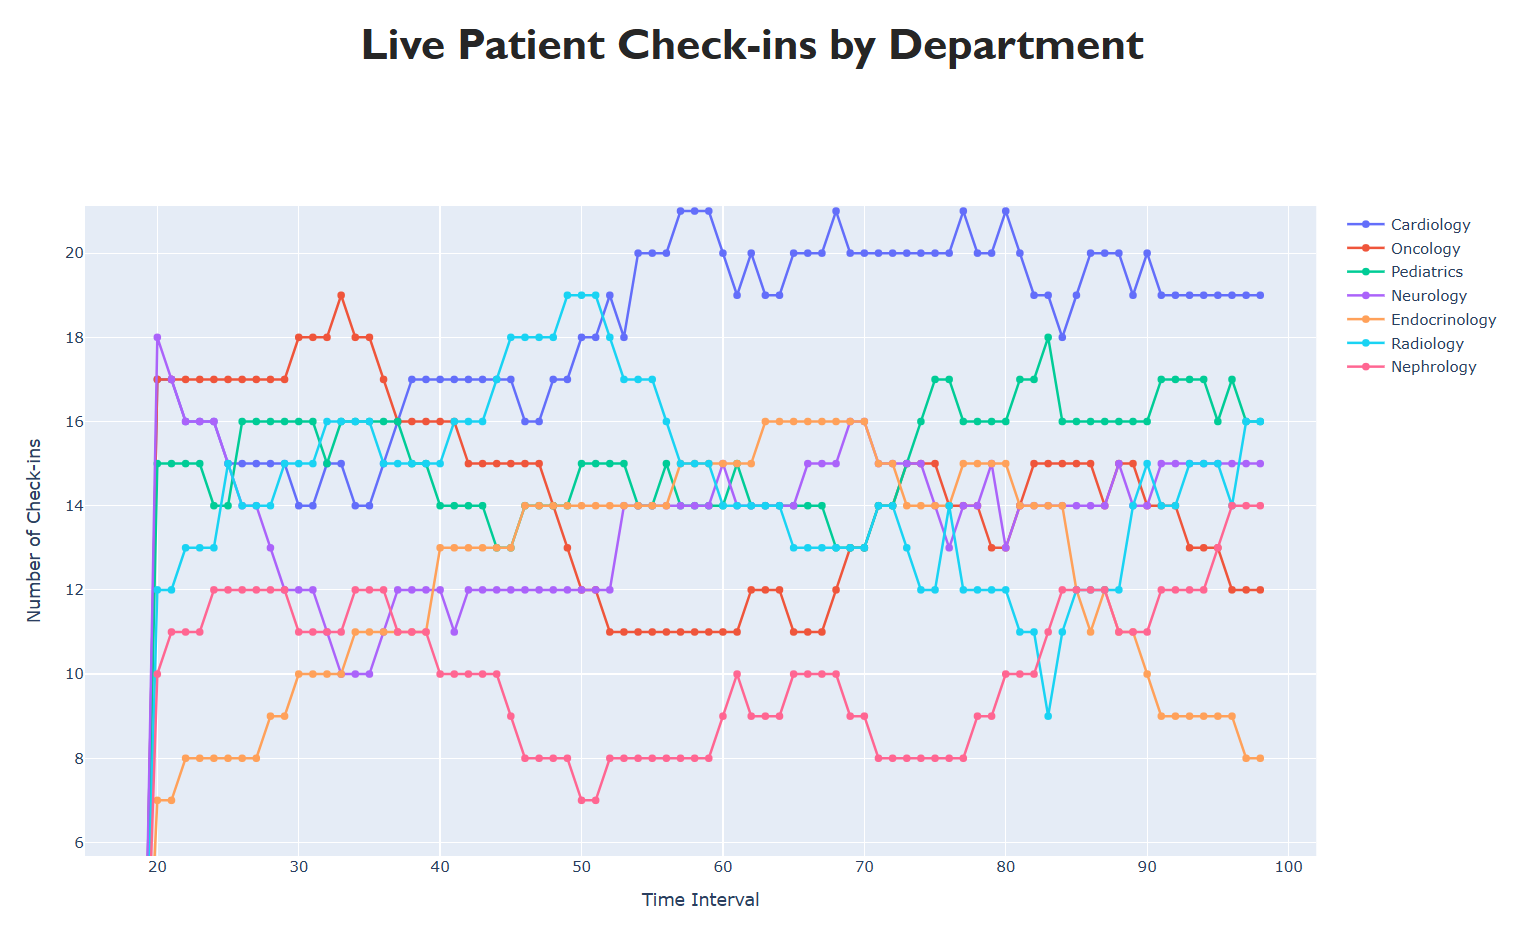
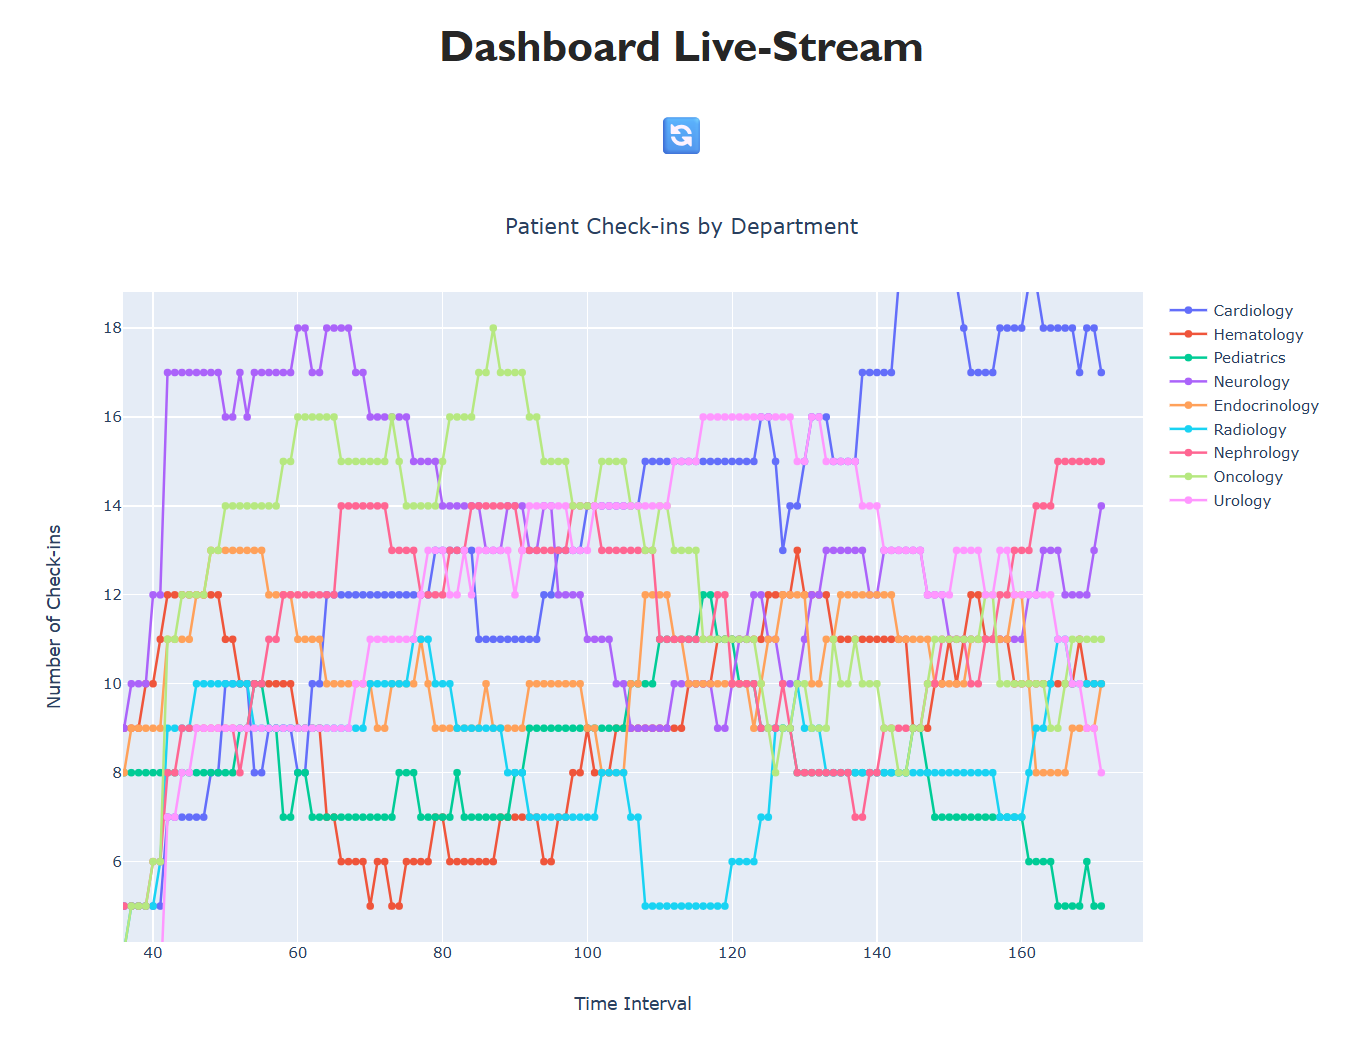
styling updates

Changed region(s): [[0.0, 0.1857, 0.9978, 0.9904], [0.2183, 0.0309, 0.7483, 0.0619], [0.4677, 0.0928, 0.5301, 0.1547]]

diff --git a/assets/style.css b/assets/style.css
@@ -40,29 +40,56 @@
   display: flex;
   flex-direction: row;
   justify-content: center;
+  align-items: center;
   margin: -5px 0px 0px 0px;
-  padding: -10px 0px 0px 0px;
+  padding: 0px 0px 0px 0px;
 }
 
 .repo-btn {
-  display: inline-block;
-  text-align: center;
-  margin: 20px 15px 15px 15px;
+  /* display: inline-block; */
+  border: 1px solid black;
+  border-radius: 2px;
+
   color:black;
   background-color: lightgray;
-  border: 2px solid black;
-  border-radius: 10px;
-  font-size: 20px;
+
+  font-size: 15px;
   font-family: 'Calibri';
-  padding: 5px 7px;
+  text-align: center;
   text-decoration: none;
+
+  margin: 20px 15px 15px 15px;
+  padding: 1px 6px 2px 6px;
 }
 
 .repo-btn:hover {
   opacity: 0.7;
+  text-decoration: underline;
 }
 
 .repo-btn:active {
+  transform: translate(0, 3px);
+}
+
+#reset-button {
+  border: 1px solid;
+  border-radius: 4px;
+  border-color: rgb(255, 255, 255);
+  background-color: rgb(255, 255, 255);
+  /* background-color: lightgray; */
+  font-family: 'Calibri';
+  font-size: 30px;
+
+  margin: 15px 0px 0px 0px;
+  padding: 0px 0px 0px 0px;
+}
+
+#reset-button:hover {
+  opacity: 0.7;
+  cursor: pointer;
+}
+
+#reset-button:active {
   transform: translate(0, 3px);
 }
 
@@ -73,6 +100,7 @@
   flex-direction: column;
   justify-content: center;
   align-items: center;
+  gap: 5px; /* Controls spacing between children */
   /* flex-grow: 1; */
 
   margin: 0px 0px 0px 0px;
@@ -96,7 +124,7 @@
 .line-graph {
   margin: 0px 0px 0px 0px;
   padding: 0px 0px 0px 0px;
-  width: 95%;
+  width: 99%;
   height: 100%;
 }
 

diff --git a/healthcare_analytics.py b/healthcare_analytics.py
@@ -12,7 +12,7 @@ from dotenv import load_dotenv
 load_dotenv()
 
 import dash
-from dash import dcc, html, Output, Input
+from dash import dcc, html, Output, Input, State
 import plotly.graph_objects as go
 
 from confluent_kafka import Producer, Consumer, KafkaError
@@ -31,9 +31,10 @@ DEPARTMENTS = [
     "Pediatrics",
     "Neurology",
     "Endocrinology", 
-    # "Radiology",
-    # "Nephrology",
-    # "Oncology",
+    "Radiology",
+    "Nephrology",
+    "Oncology",
+    "Urology",
 ]
 
 # Thread-safe queue for consumed messages
@@ -220,12 +221,18 @@ app.layout = html.Div(
         className="kafka-row",
         children=[
             html.H1(
-                "Live Patient Check-ins by Department",
+                "Dashboard Live-Stream",
                 className="kafka-title"
             ),
+            html.Div([
+                html.Button("🔄", id="reset-button", n_clicks=0)
+            ]),
+            dcc.Store(id="department-store", data=DEPARTMENTS),
+
             dcc.Graph(
                 className="line-graph",
-                id='live-bar-chart'
+                id='live-bar-chart',
+                style={"marginTop": "0px"}
             ),
             html.Div(
                 className="interval",
@@ -315,55 +322,75 @@ app.layout = html.Div(
     )
 ])
 
-
 @app.callback(
     Output('live-bar-chart', 'figure'),
-    Input('interval-component', 'n_intervals')
+    Input('interval-component', 'n_intervals'),
+    State('department-store', 'data')
 )
-def update_graph_live(n):
+def update_graph_live(n, departments):
     print(f"Updating chart at interval {n}")
     print(f"Consumed Data Length: {len(consumed_data)}")
     
-    # Grab a thread-safe copy of the latest consumed data
     with data_lock:
         data_snapshot = list(consumed_data)
 
-    # Count how many check-ins happened per department right now
-    current_counts = {dept: 0 for dept in DEPARTMENTS}
+    current_counts = {dept: 0 for dept in departments}
     for record in data_snapshot:
         dept = record.get('department')
         if dept in current_counts:
             current_counts[dept] += 1
 
-    # Add these counts to the running history for each department
-    for dept in DEPARTMENTS:
+    for dept in departments:
         counts_history[dept].append(current_counts.get(dept, 0))
 
-    # Build a list of line traces for the chart, one per department
     data = []
-    for dept in DEPARTMENTS:
+    for dept in departments:
         data.append(go.Scatter(
-            x=list(range(len(counts_history[dept]))),  # x is just the interval index
-            y=counts_history[dept],                    # y is the count history for this dept
-            mode='lines+markers',                      # show lines with dots on points
-            name=dept,                                 # label the line with the department name
+            x=list(range(len(counts_history[dept]))),
+            y=counts_history[dept],
+            mode='lines+markers',
+            name=dept,
             hovertemplate=f"{dept}: <b>%{{y}}</b><extra></extra>"
         ))
 
-    # Put it all together in a Figure with titles and axis labels
     fig = go.Figure(data=data)
     fig.update_layout(
         height=700,
-        xaxis_title="Time Interval",
-        yaxis_title="Number of Check-ins",
-        yaxis=dict(range=[0, max(max(counts) for counts in counts_history.values()) + 1])  # y-axis from 0 to max count + 1
+        title=dict(
+            text="Patient Check-ins by Department",
+            y=0.94,  # Lower the title closer to the chart
+            x=0.5, 
+            xanchor='center',
+            yanchor='top'
+        ),
+        xaxis=dict(
+            title="Time Interval",
+            title_standoff=30  # ⬅ Adds space below the x-axis title
+        ),
+        yaxis=dict(
+            title="Number of Check-ins",
+            title_standoff=30,  # ⬅ Adds space to the left of the y-axis title
+            range=[0, max(max(counts) for counts in counts_history.values()) + 1]
+        )
     )
     return fig
 
+@app.callback(
+    Output("interval-component", "n_intervals"),
+    Input("reset-button", "n_clicks"),
+    prevent_initial_call=True
+)
+def reset_chart(n_clicks):
+    with data_lock: 
+        consumed_data.clear()
+    for dept in counts_history:
+        counts_history[dept].clear()
+    return 0  # ✅ Resets the interval and restarts chart updates
 
 # =========================== RUN APP & THREADS ======================= #
 
 if __name__ == "__main__":
+    
     # Start Kafka producer thread (daemon so it ends when main thread ends)
     producer_thread = threading.Thread(target=kafka_producer, daemon=True)
     producer_thread.start()
@@ -374,8 +401,8 @@ if __name__ == "__main__":
 
     # Run Dash app on all interfaces and appropriate port (for Heroku)
     port = int(os.environ.get('PORT', 8050))
-    # app.run_server(host='0.0.0.0', port=port, debug=True)
-    app.run_server(host='0.0.0.0', port=port, debug=False)
+    app.run_server(host='0.0.0.0', port=port, debug=True)
+    # app.run_server(host='0.0.0.0', port=port, debug=False)
 
 # -------------------------------------------- KILL PORT ---------------------------------------------------
 
